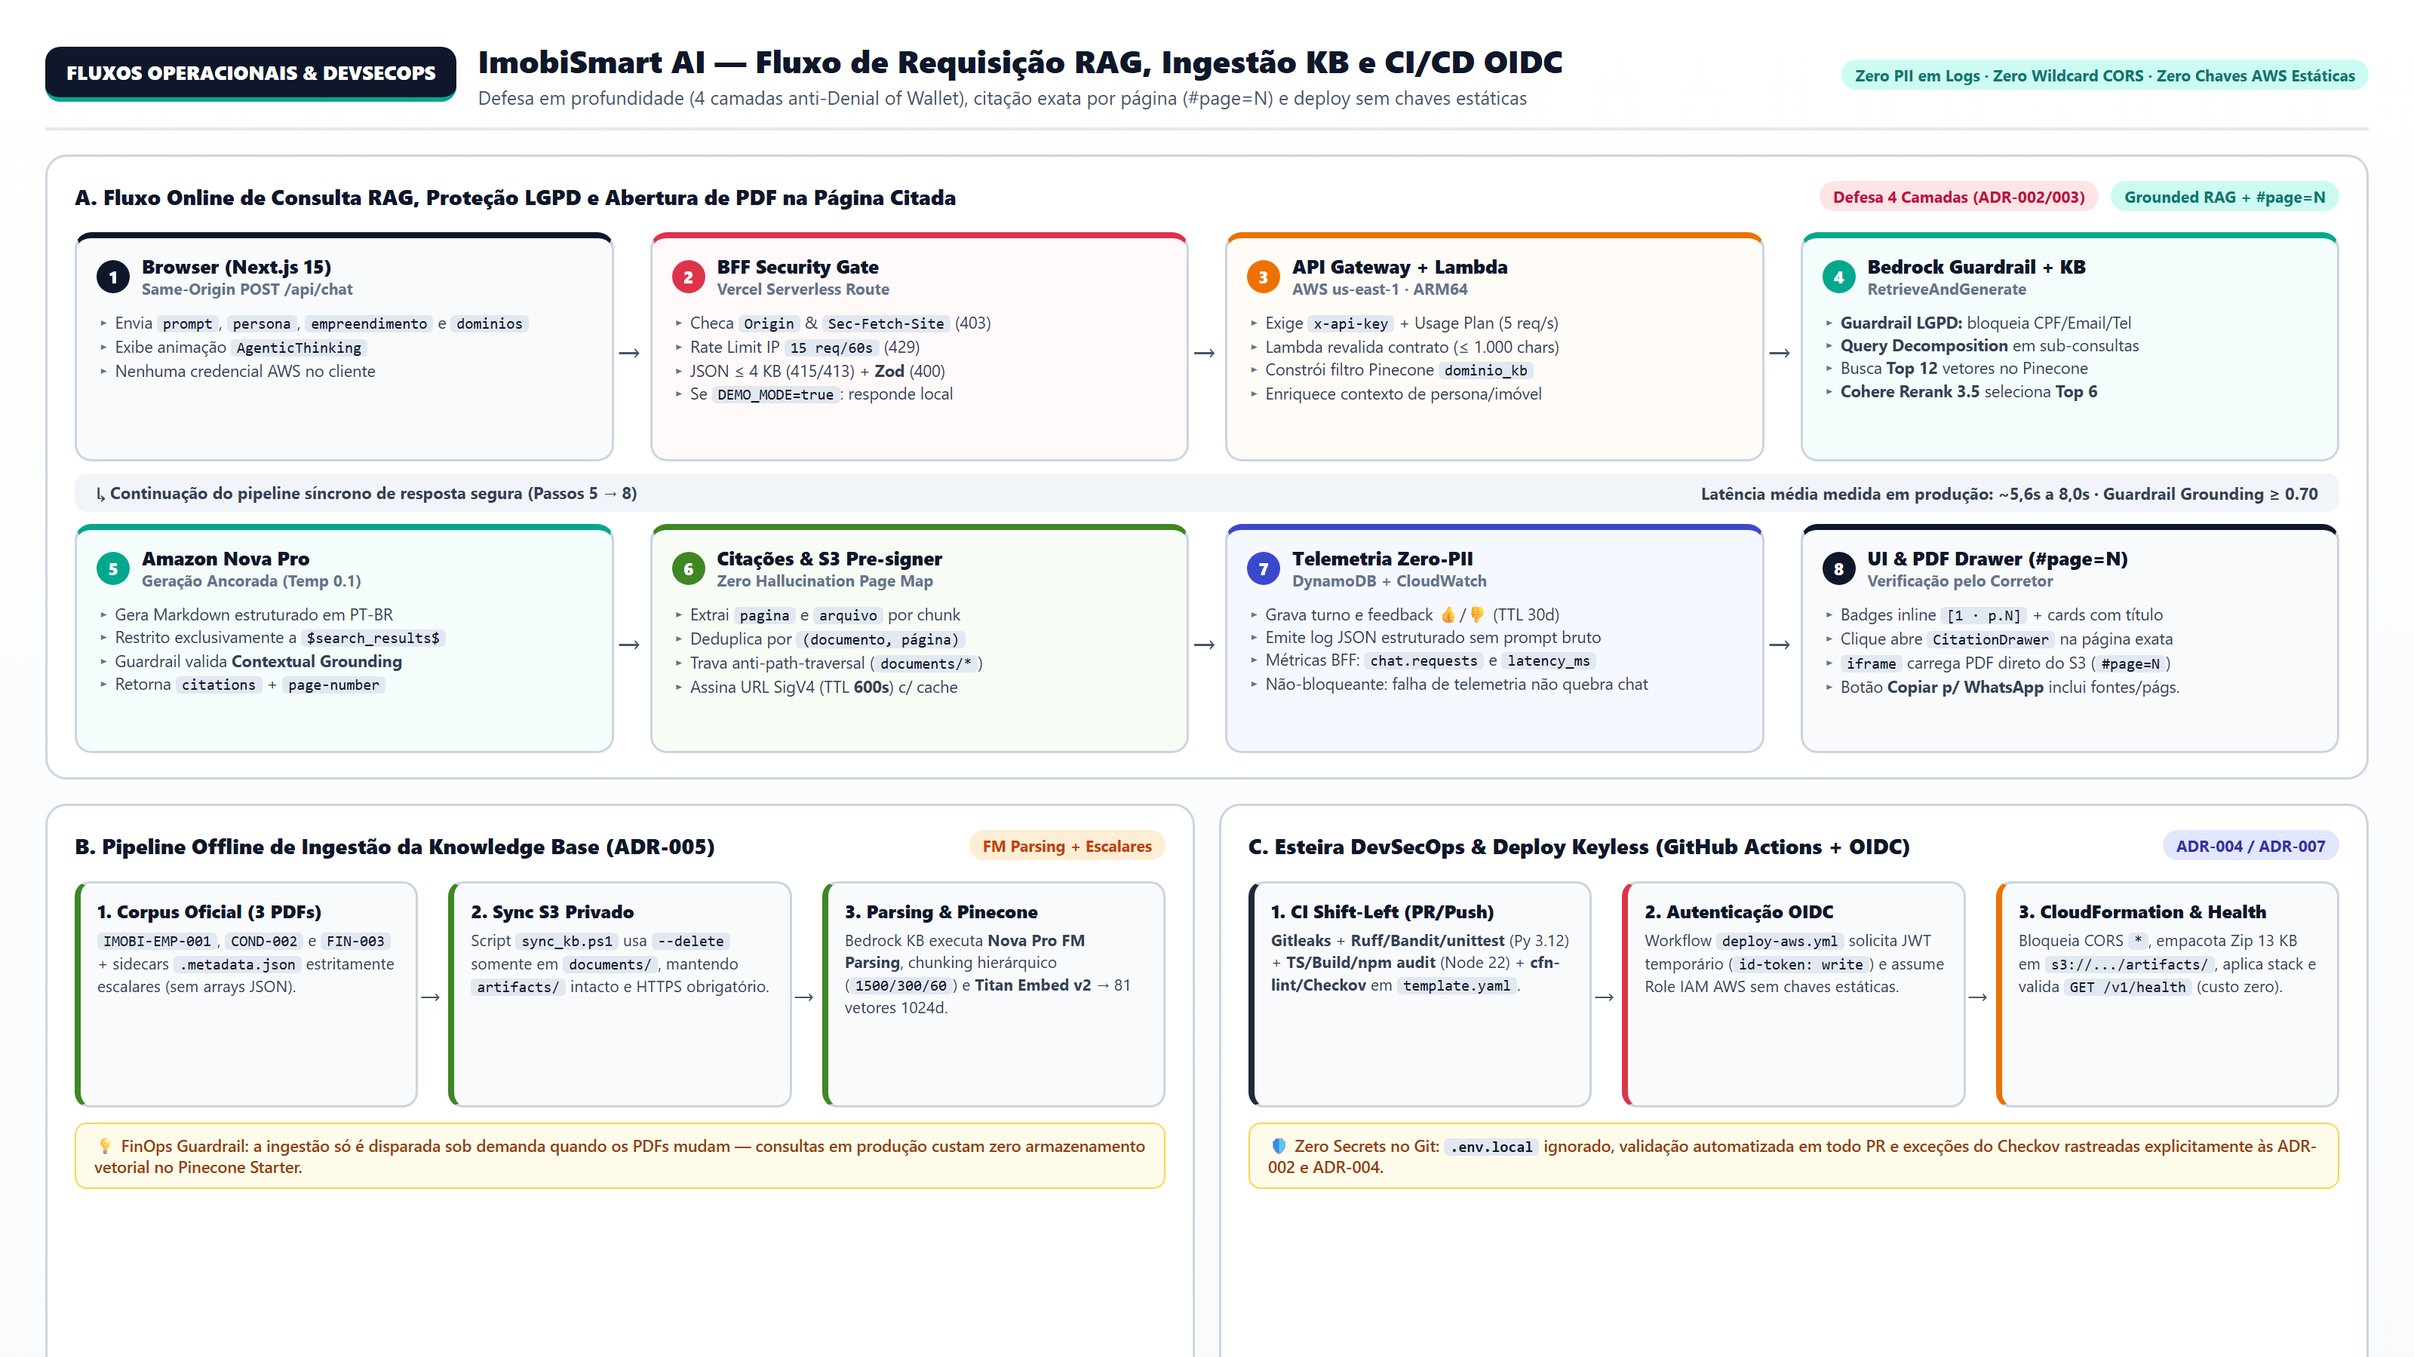
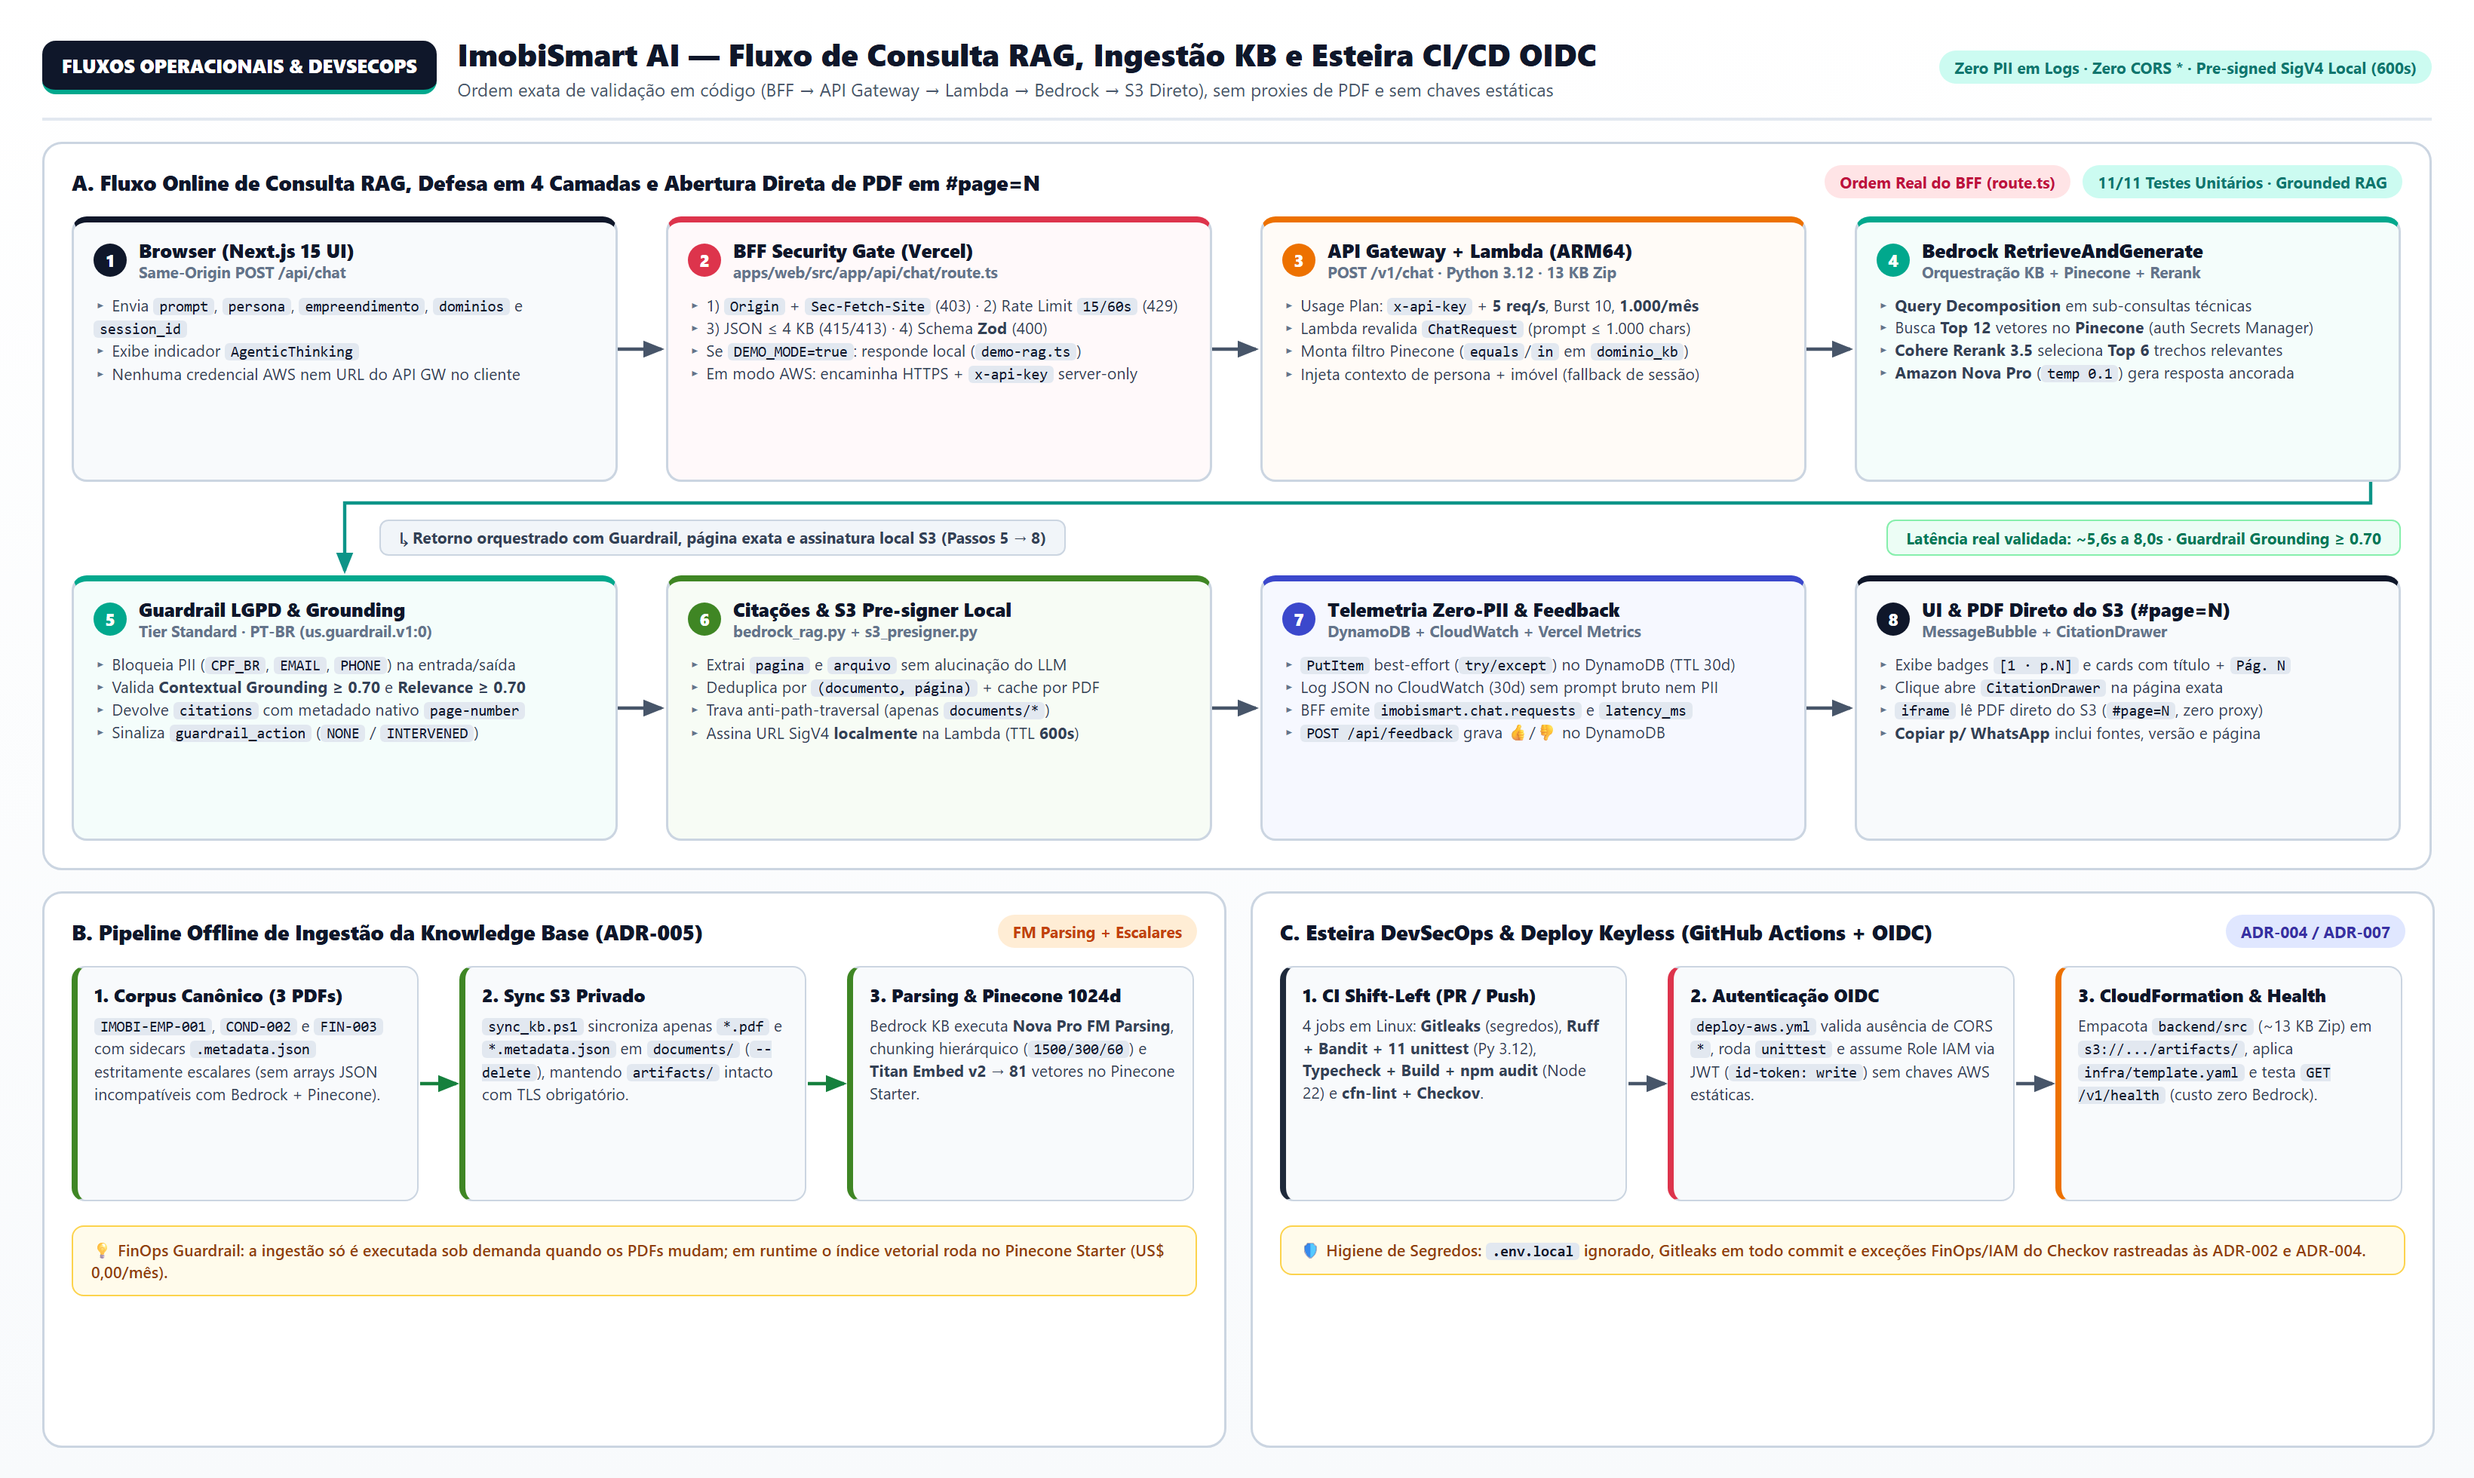
chore: finalize draw.io AWS diagrams, DynamoDB evidence, CI hardening and repo URL

Changed region(s): [[0.0, 0.0, 1.0, 0.5289], [0.0, 0.56, 1.0, 0.8711], [0.1875, 0.2178, 0.2188, 0.2489]]

diff --git a/backend/tests/test_backend.py b/backend/tests/test_backend.py
@@ -13,12 +13,12 @@ BACKEND_ROOT = Path(__file__).resolve().parents[1]
 if str(BACKEND_ROOT) not in sys.path:
     sys.path.insert(0, str(BACKEND_ROOT))
 
-from src.config import Settings
-from src.handlers.chat import lambda_handler
-from src.schemas.chat import ChatRequest, FeedbackRequest, ValidationError
-from src.services.bedrock_rag import BedrockRagService
-from src.services.s3_presigner import S3Presigner
-from src.services.session_store import SessionStore
+from src.config import Settings  # noqa: E402
+from src.handlers.chat import lambda_handler  # noqa: E402
+from src.schemas.chat import ChatRequest, FeedbackRequest, ValidationError  # noqa: E402
+from src.services.bedrock_rag import BedrockRagService  # noqa: E402
+from src.services.s3_presigner import S3Presigner  # noqa: E402
+from src.services.session_store import SessionStore  # noqa: E402
 
 
 def _make_settings() -> Settings:

diff --git a/docs/evidence/README.md b/docs/evidence/README.md
@@ -37,6 +37,7 @@ Este diretório reúne as gravações `.mp4` e capturas de tela geradas em valid
 9. **Amazon S3 Privado (Prefixos isolados `artifacts/` e `documents/`):** ![AWS S3 Bucket](./screenshots/09-aws-s3-private-bucket.png)
 10. **Amazon Bedrock Knowledge Base (`imobismart-kb-prod` · `ImobiSmartBedrockKBRole` · Hierarchical Chunking + FM Parsing + Titan Embed v2 `1024d`):** ![AWS Bedrock Knowledge Base](./screenshots/10-aws-bedrock-kb.png)
 11. **Pinecone Serverless (`imobismart-kb` · `81` vetores · `0.64 MB / 2 GB` · `us-east-1` · Metadados escalares planos):** ![Pinecone Serverless Index](./screenshots/11-pinecone-serverless-index.png)
+12. **Amazon DynamoDB (`imobismart-sessions-prod` · `Active` · `pk`/`sk` · `On-demand`):** ![AWS DynamoDB Sessions](./screenshots/12-aws-dynamodb-sessions.png)
 
 ---
 
